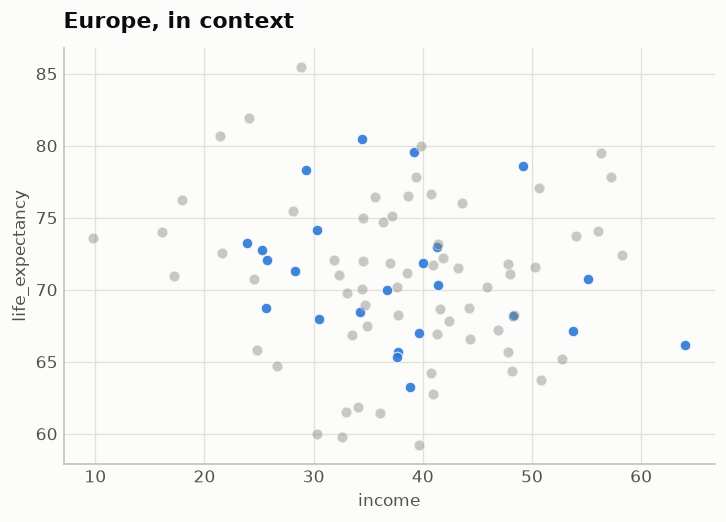
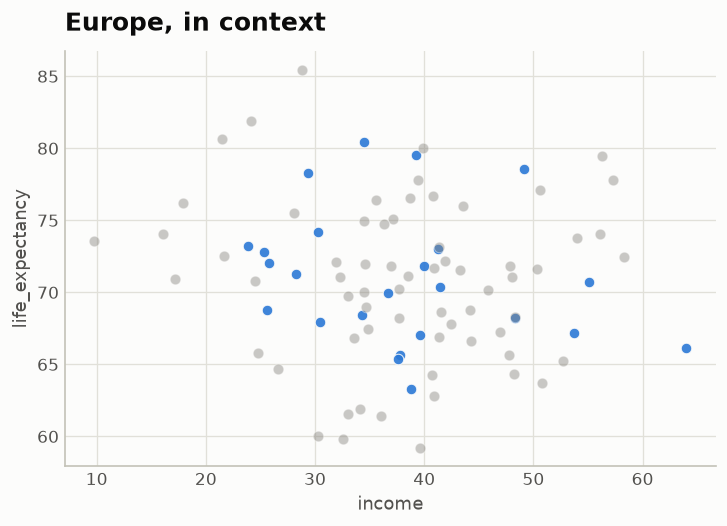
Add black-and-white / texture example (#14)
Merge the texture= channel and add examples/black_and_white.py: a
grouped bar and multi-line with texture=True, rendered in color and
desaturated to grayscale to show series stay distinct without color.
Add a gallery section + run/table entries. Regenerated the other example
images to reflect the current type scale.

Claude-Session: https://claude.ai/code/session_01SHA1ht7BUdjWvcxKPRCqGK

diff --git a/examples/black_and_white.py b/examples/black_and_white.py
@@ -1,0 +1,58 @@
+"""Black-and-white legibility: the opt-in `texture=` secondary-encoding channel.
+
+`texture=True` gives each series a non-color cue — hatches on bars, dash patterns on
+lines, marker shapes on scatter — so a chart survives grayscale printing and reads
+for colorblind viewers. This script renders a textured grouped bar and multi-line in
+color, then desaturates them to grayscale to prove the series stay distinct with
+color removed.
+
+Run:  python examples/black_and_white.py
+"""
+
+from pathlib import Path
+
+import matplotlib.pyplot as plt
+import numpy as np
+import pandas as pd
+
+import vizlib as viz
+
+IMAGES = Path(__file__).parent / "images"
+
+survey = pd.DataFrame(
+    {
+        "quarter": ["Q1", "Q1", "Q2", "Q2", "Q3", "Q3", "Q4", "Q4"],
+        "channel": ["Web", "Store"] * 4,
+        "responses": [30, 18, 42, 25, 38, 30, 45, 33],
+    }
+)
+usage = pd.DataFrame(
+    {
+        "month": list(range(1, 9)) * 3,
+        "plan": ["Pro"] * 8 + ["Free"] * 8 + ["Team"] * 8,
+        "users": [5, 9, 14, 21, 25, 30, 38, 46]
+        + [20, 24, 27, 30, 34, 36, 41, 44]
+        + [2, 5, 9, 15, 22, 31, 42, 55],
+    }
+)
+
+fig, axes = plt.subplots(1, 2, figsize=(14, 5.2))
+viz.bar(survey, x="quarter", y="responses", by="channel", texture=True,
+        ax=axes[0], title="Responses by channel", subtitle="texture=True")
+viz.line(usage, x="month", y="users", by="plan", texture=True,
+         ax=axes[1], title="Users by plan", subtitle="texture=True")
+fig.patch.set_facecolor("#fcfcfb")
+fig.tight_layout(pad=2.5)
+color = IMAGES / "black_and_white_color.png"
+fig.savefig(color, dpi=120)
+print("wrote", color)
+
+# Desaturate to grayscale to prove the series remain distinguishable.
+img = plt.imread(color)[..., :3]
+luminance = img @ np.array([0.2126, 0.7152, 0.0722])
+g, gax = plt.subplots(figsize=(14, 5.2))
+gax.imshow(luminance, cmap="gray", vmin=0, vmax=1)
+gax.axis("off")
+gray = IMAGES / "black_and_white_gray.png"
+g.savefig(gray, dpi=120, bbox_inches="tight", pad_inches=0)
+print("wrote", gray)

diff --git a/examples/README.md b/examples/README.md
@@ -38,6 +38,7 @@ python examples/scatter_relationships.py
 python examples/distributions.py
 python examples/theming.py
 python examples/theme_lime.py
+python examples/black_and_white.py
 ```
 
 Or run them all at once:
@@ -64,6 +65,7 @@ interactively instead, replace the `savefig(...)` call with `plt.show()`.
 | [`distributions.py`](./distributions.py) | hist | A single distribution, overlaid groups on shared bins, emphasis via `highlight=` |
 | [`theming.py`](./theming.py) | any | The dark theme, the `theme()` context manager, and a custom `Theme` |
 | [`theme_lime.py`](./theme_lime.py) | any | The built-in "Lime Green" theme (`lime` / `lime-dark`) |
+| [`black_and_white.py`](./black_and_white.py) | bar, line | `texture=` secondary encoding, shown in color and desaturated to grayscale |
 
 ## Gallery
 
@@ -126,6 +128,15 @@ The built-in dark theme (its own validated steps, not an inversion) and a custom
 
 ![dark theme](./images/theme_dark.png)
 ![custom theme](./images/theme_custom.png)
+
+### `black_and_white.py`
+`texture=True` adds a non-color channel — hatches on bars, dash patterns on lines —
+so series survive grayscale printing and read for colorblind viewers. Below: the
+color render, then the same figure desaturated to grayscale, where every series is
+still distinct.
+
+![texture in color](./images/black_and_white_color.png)
+![texture in grayscale](./images/black_and_white_gray.png)
 
 ### `theme_lime.py`
 The built-in **Lime Green** theme (ported from a shadcn theme). The lime primary
